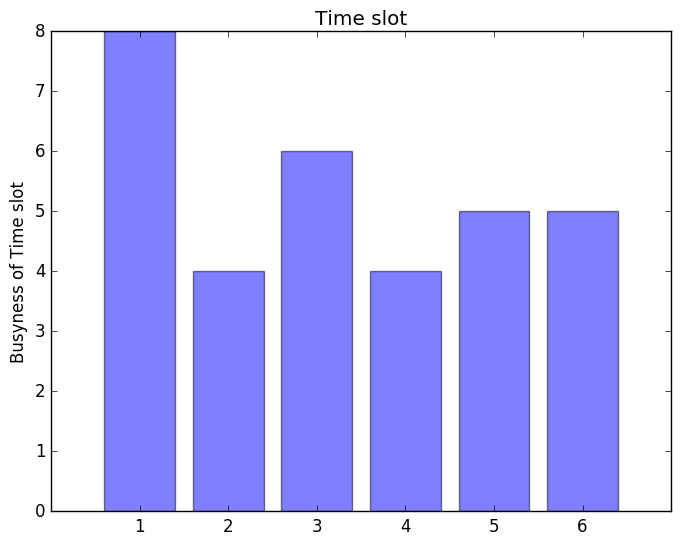
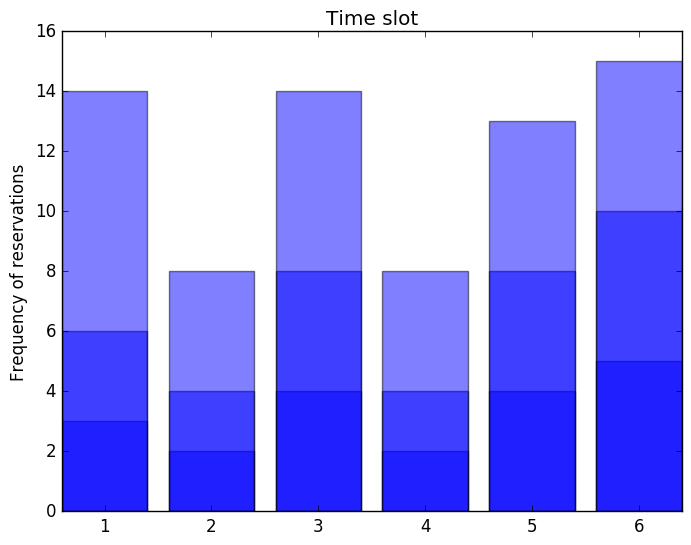
Updated scripts

diff --git a/Backend/scripts/inventory_visualization.py b/Backend/scripts/inventory_visualization.py
@@ -25,52 +25,45 @@ URL = "http://18.136.208.244:8080/api/listItems"
 cur_dir = os.path.dirname(os.path.realpath('inventory_visualization.py'))
 
 #Creating plot
-#for hotel in hotels_list:
-#Uncomment and ident below code inside for loop to plot inventory for all hotels in db
-'''
-#Changing the current working directory to respective hotel folder in assets
-target_dir = os.path.join(cur_dir, '../assets/'+str(hotel)+'/')
-target_dir = os.path.abspath(os.path.realpath(target_dir))
-os.chdir(target_dir)
-'''
-
-res = requests.post(url = URL ,data = {"hotel_name":"AKF"})
-
-inventory_data  = res.json()
-
-print(inventory_data)
-
-inventory = inventory_data['inventory']
-print(inventory)
-
-ing_name_list = []
-ing_quantity_list = []
+for hotel in hotels_list:
 	
-for item in inventory:
-	ing_name_list.append(item['ing_name'])
-	ing_quantity_list.append(item['ing_quant'])
+	#Changing the current working directory to respective hotel folder in assets
+	target_dir = os.path.join(cur_dir, '../assets/'+str(hotel)+'/')
+	target_dir = os.path.abspath(os.path.realpath(target_dir))
+	os.chdir(target_dir)
+	
 
-print(ing_name_list)
-print(ing_quantity_list)
+	res = requests.post(url = URL ,data = {"hotel_name":hotel})
 
-numeric_ing_quantity = []
+	inventory_data  = res.json()
 
-for ing_quantity in ing_quantity_list:
-	quantity = ing_quantity.split()
-	quantity = int(quantity[0])
-	numeric_ing_quantity.append(quantity)
+	inventory = inventory_data['inventory']
+	ing_name_list = []
+	ing_quantity_list = []
+		
+	for item in inventory:
+		ing_name_list.append(item['ing_name'])
+		ing_quantity_list.append(item['ing_quant'])
 
-print(numeric_ing_quantity)
+	print(hotel)
+	print(ing_name_list)
+	print(ing_quantity_list)
 
-#Creating plot
+	numeric_ing_quantity = []
 
-y_pos = np.arange(len(ing_name_list))
+	for ing_quantity in ing_quantity_list:
+		quantity = ing_quantity.split()
+		quantity = int(quantity[0])
+		numeric_ing_quantity.append(quantity)
 
-plt.barh(y_pos, numeric_ing_quantity,align='center', alpha=0.5)
-plt.yticks(y_pos, ing_name_list)
-plt.title('Quantity in kg')
-#fname = str(hotel) + "_inventory.png"
-fname = "AKF" + "_inventory.png"
-plt.savefig(fname)
+	print(numeric_ing_quantity)
 
-# bbox_inches='tight'
+	#Creating plot
+
+	y_pos = np.arange(len(ing_name_list))
+	
+	plt.barh(y_pos, numeric_ing_quantity,align='center', alpha=0.5)
+	plt.yticks(y_pos, ing_name_list)
+	plt.title('Quantity in kg')
+	fname = str(hotel) + "_inventory.png"
+	plt.savefig(fname)

diff --git a/Backend/scripts/peakhours_visualization.py b/Backend/scripts/peakhours_visualization.py
@@ -61,7 +61,7 @@ for hotel in hotels_list:
 		
 		plt.bar(y_pos, freq,width = 0.8,align='center', alpha=0.5)
 		plt.xticks(y_pos, time_slot)
-		plt.ylabel('Busyness of Time slot')
+		plt.ylabel('Frequency of reservations')
 		plt.title('Time slot')
 		fname = str(hotel) + "_PeakHours.png"
 
